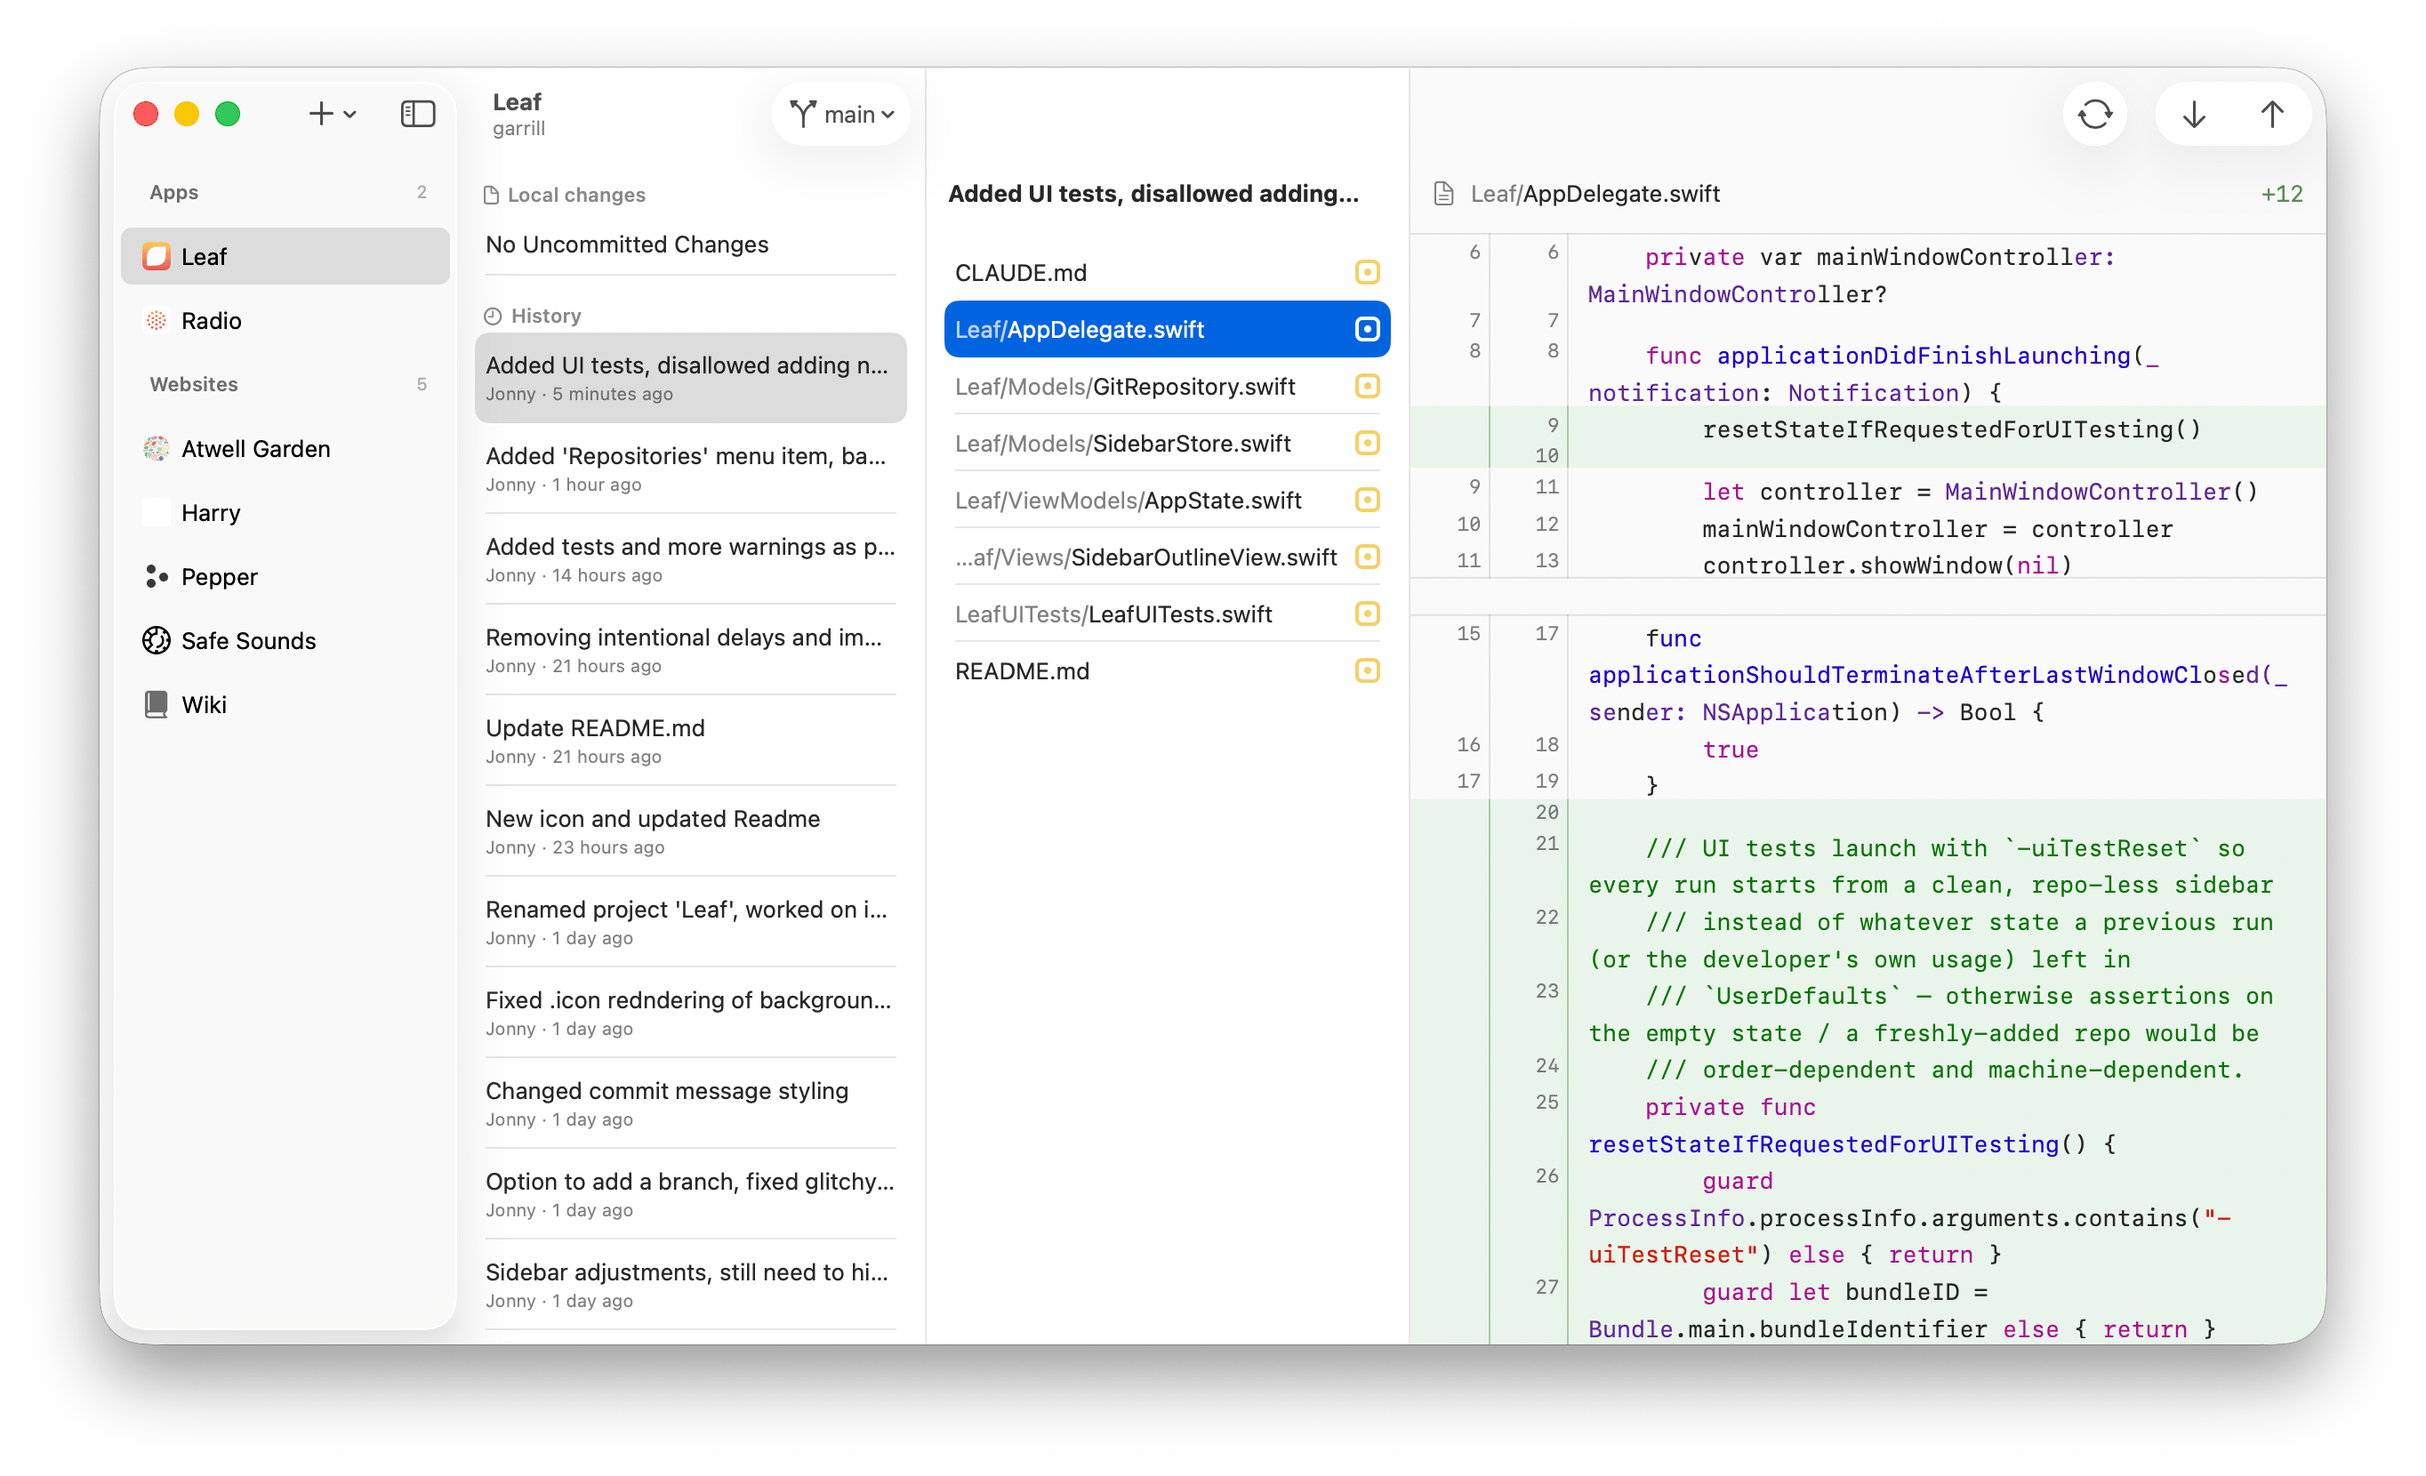
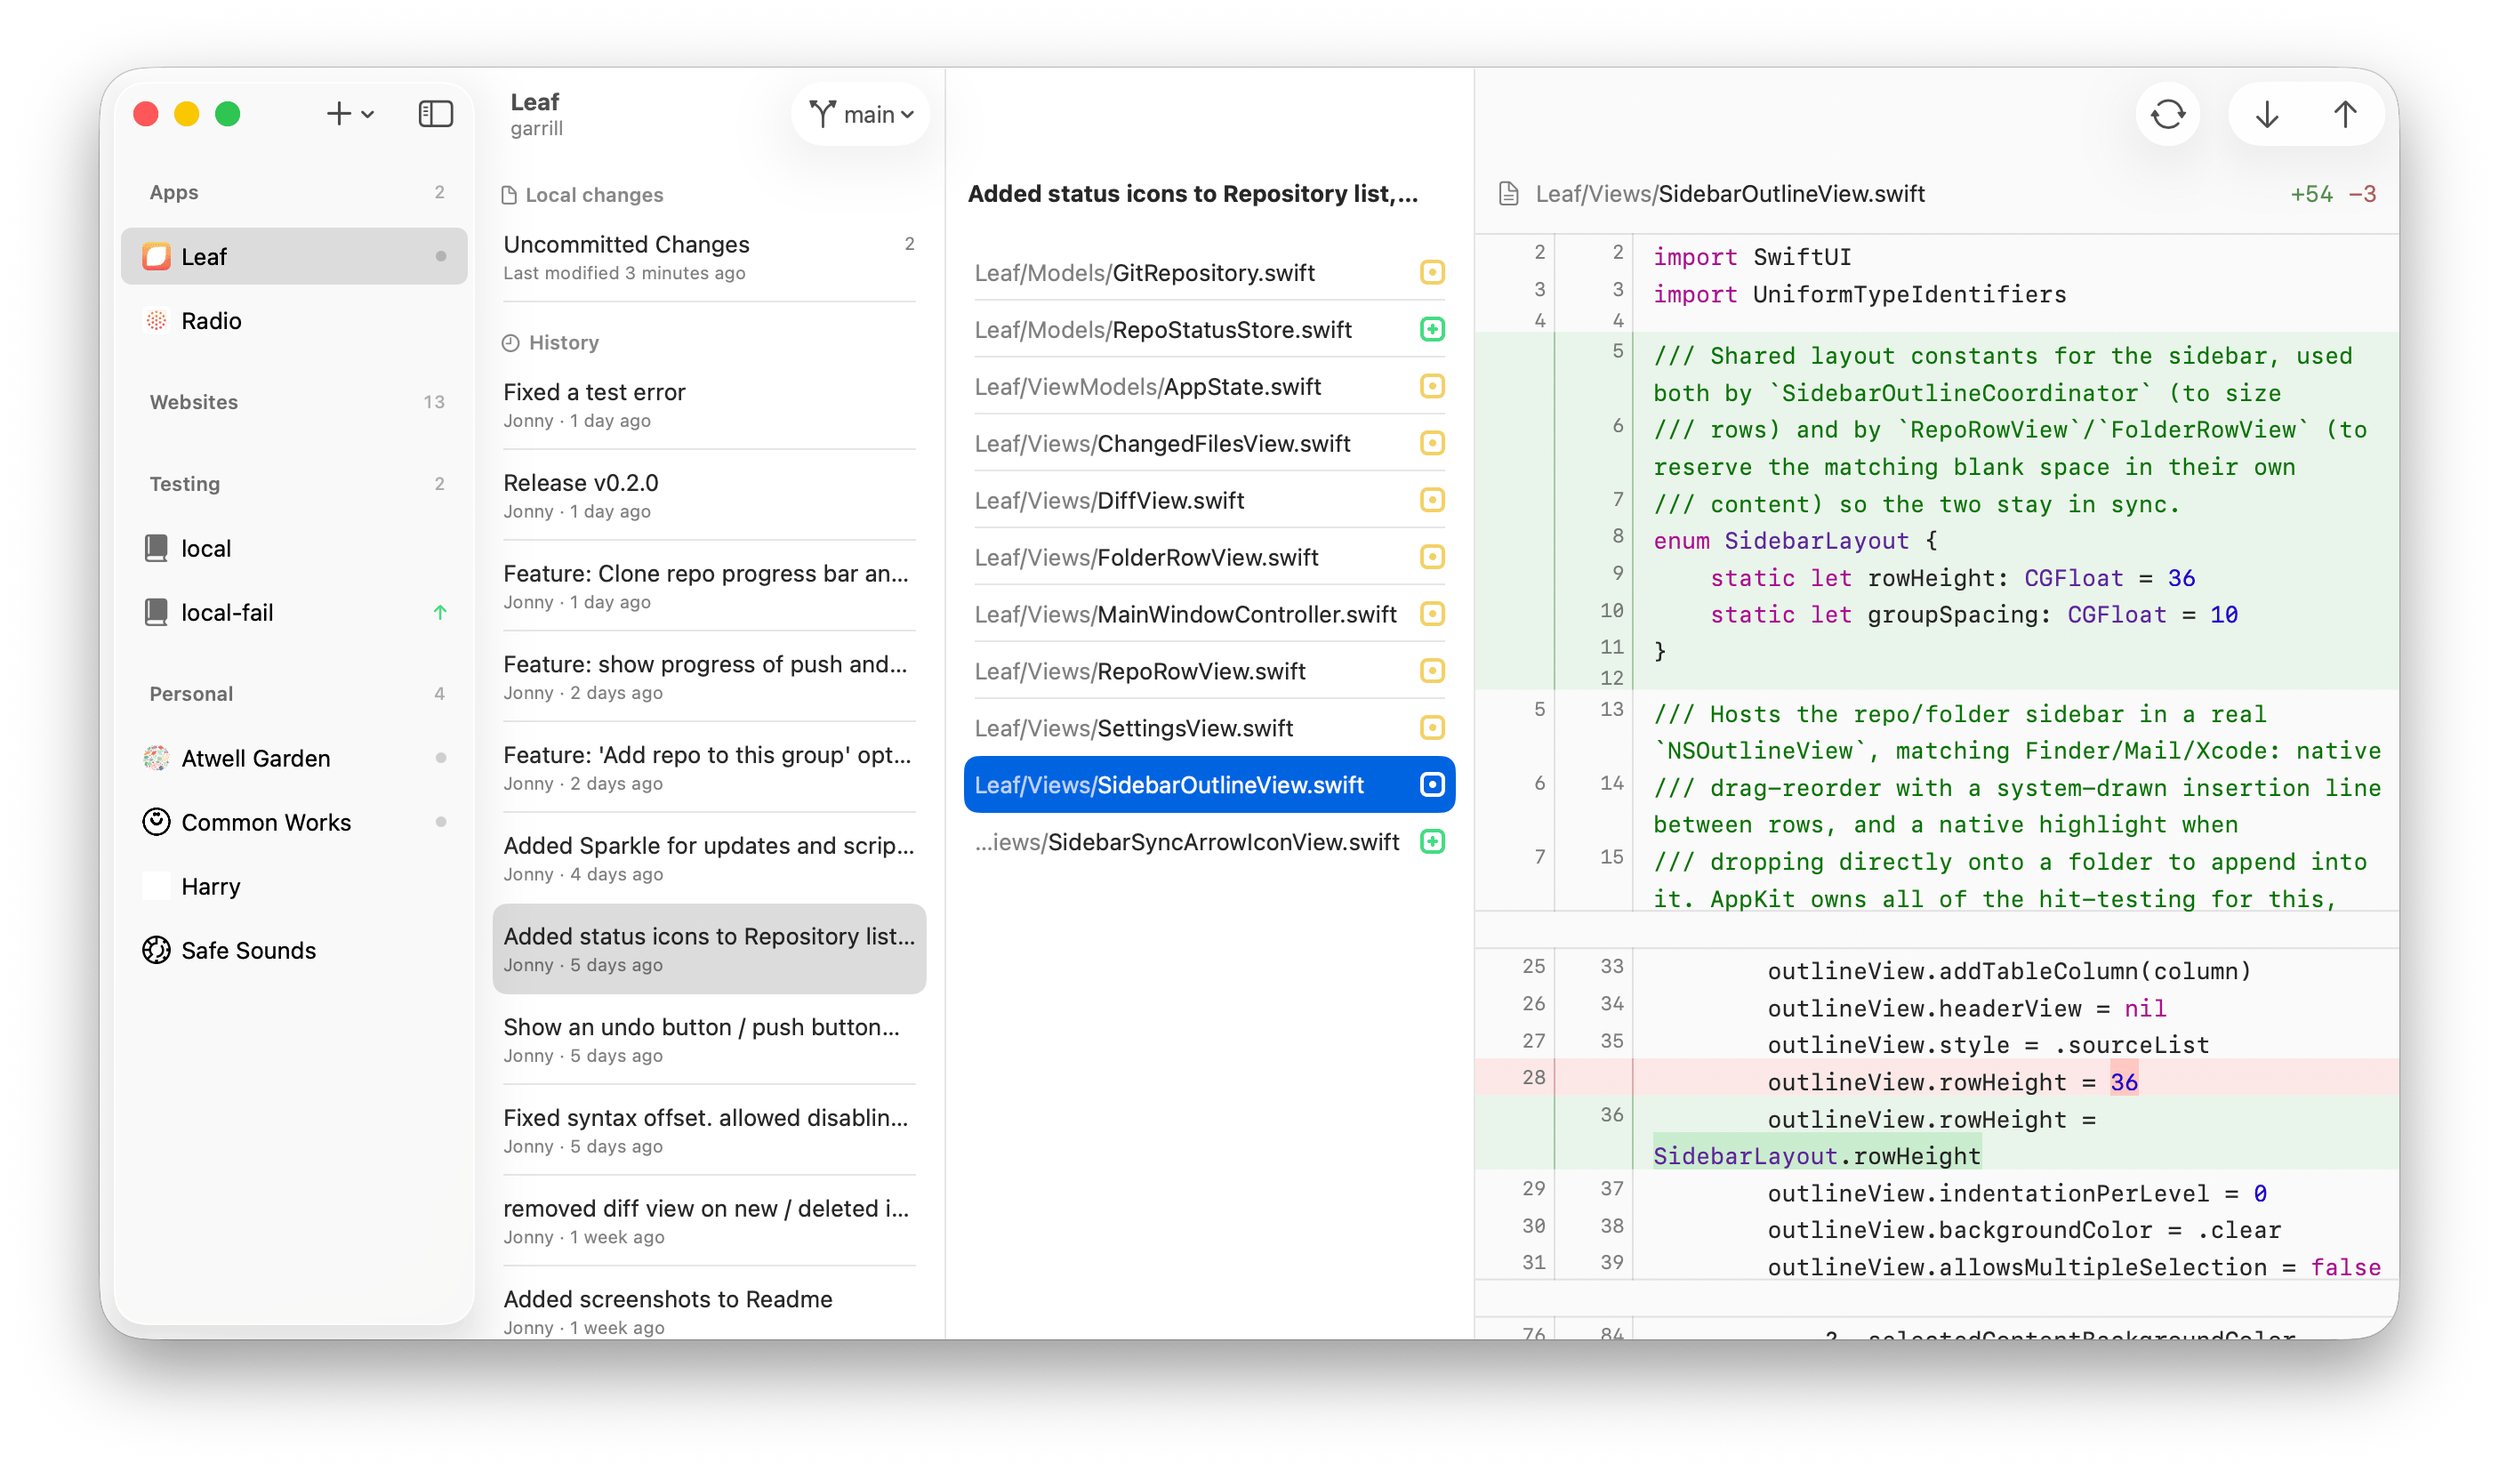
Fix: 'before' image in swiper view is masked properly

diff --git a/Leaf/Views/ImageDiffView.swift b/Leaf/Views/ImageDiffView.swift
@@ -170,6 +170,9 @@ private struct ImageSwiperView: View {
                         .resizable()
                         .aspectRatio(contentMode: .fit)
                         .frame(width: geo.size.width, height: geo.size.height)
+                        .mask(alignment: .trailing) {
+                            Rectangle().frame(width: geo.size.width * (1 - position))
+                        }
                 } else {
                     Text("File Deleted")
                         .font(.callout)
